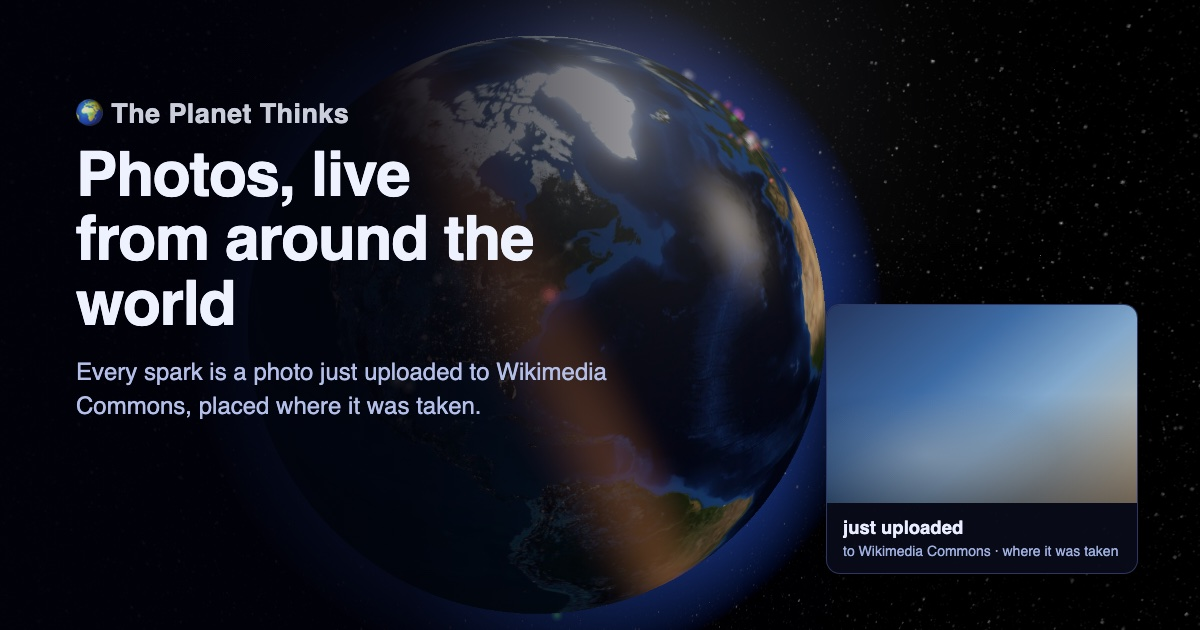
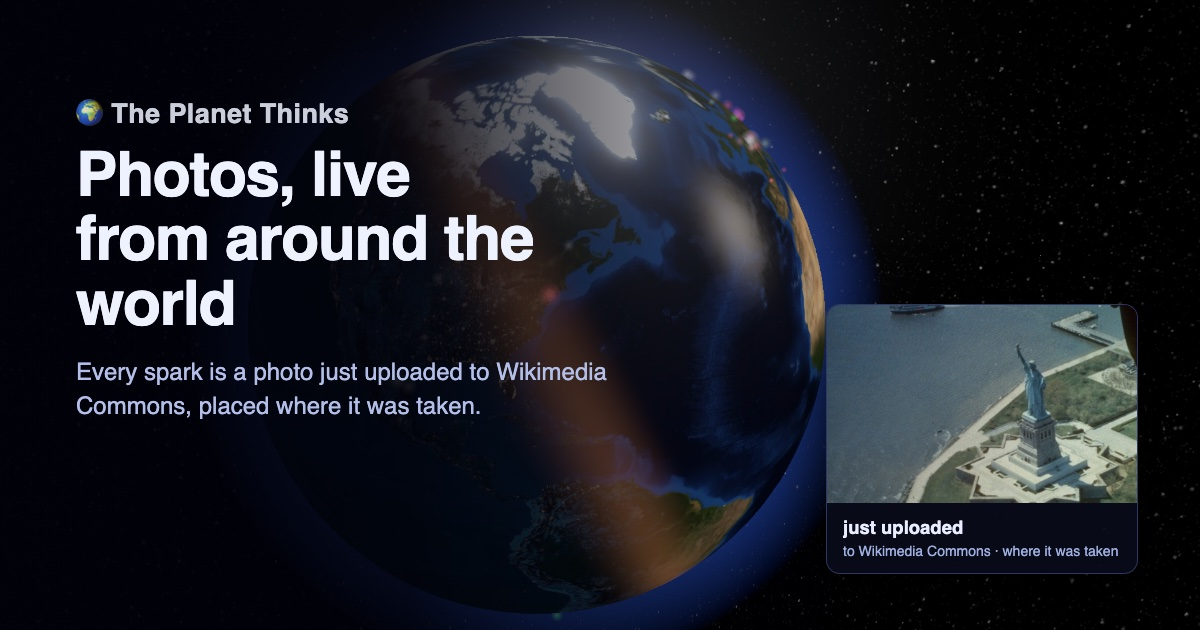
Use a public-domain NPS aerial of Liberty Island in the /photos share card; add the card to the press kit

Changed region(s): [[0.6783, 0.4825, 0.9558, 0.8143]]

diff --git a/web/public/press.html b/web/public/press.html
@@ -107,11 +107,17 @@
       <a href="/press/icon.png"><img src="/press/icon.png" alt="The Planet Thinks logo — a small Earth against space" /></a>
       <figcaption>Logo / app icon (480×480 PNG).</figcaption>
     </figure>
+    <figure>
+      <a href="/og-photos.jpg"><img src="/og-photos.jpg" alt="Share card for the photos mode: the globe beside a card showing a freshly uploaded Wikimedia Commons photo" /></a>
+      <figcaption>Share card for the <a href="/photos">photos mode</a> (1200×630 JPG).</figcaption>
+    </figure>
   </div>
   <p class="muted">Direct links: <a href="/press/icon.png">icon.png</a> ·
     <a href="/press/screenshot-live.png">screenshot-live.png</a> ·
     <a href="/press/screenshot-terminator.png">screenshot-terminator.png</a> ·
-    <a href="/press/screenshot-night.png">screenshot-night.png</a>. All free to use with credit to The Planet Thinks.</p>
+    <a href="/press/screenshot-night.png">screenshot-night.png</a> ·
+    <a href="/og-photos.jpg">og-photos.jpg</a>. All free to use with credit to The Planet Thinks.
+    The photograph inside the share card is <a href="https://commons.wikimedia.org/wiki/File:Statue_of_Liberty_National_Monument_STLI7045.jpg" rel="noopener">a public-domain National Park Service aerial</a> of Liberty Island.</p>
 
   <h2>Fact sheet</h2>
   <table>
